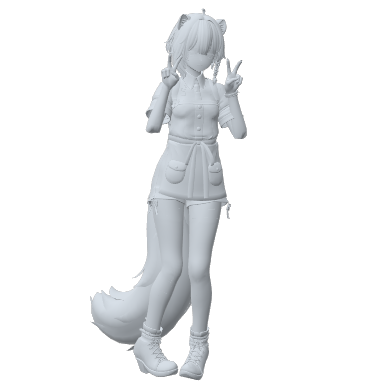
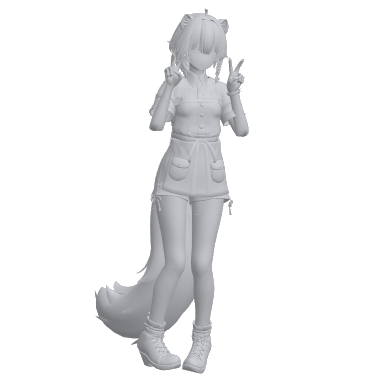
KTBPoses 2.1：同梱ポーズを 100 種類に
- 同梱のポーズの一覧を 100 ポーズ（6 カテゴリ）にして、全ポーズの画像を作り直した
- 「同梱から作成」と、更新で増えた同梱ポーズがライブラリに入ることを説明
- ツールの画面のスクリーンショットを 2.1 のものにした
- 更新履歴に 2.1 を追加

Changed region(s): [[0.2188, 0.0312, 0.6562, 1.0]]

diff --git a/docs/library.md b/docs/library.md
@@ -31,7 +31,7 @@
 
 ## タグ
 
-タグでポーズを分類しておけます。同梱のポーズには、カテゴリ名（ピース・ハート・あざとい・しぐさ・すわる）のタグが付いています。
+タグでポーズを分類しておけます。同梱のポーズには、カテゴリ名（ピース・ハート・あざとい・しぐさ・キメポーズ・すわる）のタグが付いています。
 
 - **＋ タグ** でタグを付けます。今あるタグから選ぶか、「新しいタグ…」で作ります
 - タグの **×** で外します
@@ -63,11 +63,11 @@
 
 ## 同梱ポーズを体型に合わせ直す { #refit }
 
-同梱の 26 ポーズは、手の位置や足の接地を、制作に使ったアバターの体型に合わせて作ってあります。体型や衣装が大きく違うアバターでは、手が顔に少しめり込んだり、腕が体に埋まったり、足が少し浮いたり沈んだりすることがあります。
+同梱の 100 ポーズは、手の位置や足の接地を、制作に使ったアバターの体型に合わせて作ってあります。体型や衣装が大きく違うアバターでは、手が顔に少しめり込んだり、腕が体に埋まったり、足が少し浮いたり沈んだりすることがあります。
 
-上の段でアバターを選び、何も選んでいないときに出る **同梱ポーズを体型に合わせ直す** を押すと、そのアバターの体型と衣装に合わせて計算し直します。
+上の段でアバターを選び、何も選んでいないときに出る **同梱ポーズを体型に合わせ直す** を押すと、そのアバターの体型と衣装に合わせて計算し直します（1 分ほどかかります）。
 
-- 手の位置、腕が体や服にめり込まない角度、足と床の接地を、そのアバターで計算します
+- 手の位置、腕が体や服や床にめり込まない角度、足と床の接地（すわるポーズでは、お尻やひざと床の接地）を、そのアバターで計算します
 - 同梱ポーズのアニメーション（`Assets/KyokaToyBox/KTBPoses/Animations`）を上書きします。同じアニメーションを使う、ほかのアバターのポーズも変わります
 - 導入済みのアバターのポーズにもすぐ反映されます。メニューのアイコンは、[導入し直す](install-avatar.md#reinstall) と新しいポーズになります
 

diff --git a/docs/index.md b/docs/index.md
@@ -6,20 +6,20 @@ KTBPoses は、VRChat のアバターにポーズ集を入れるための Unity 
 ![横ピース](images/poses/01_SidePeace.png)
 ![頭上ハート](images/poses/06_HeadHeart.png)
 ![うさみみ](images/poses/18_BunnyEars.png)
-![スカートつまみ](images/poses/07_SkirtPinch.png)
-![やったー](images/poses/24_Yay.png)
-![女の子座り](images/poses/26_FloorSit.png)
+![自撮り](images/poses/69_Selfie.png)
+![アラベスク](images/poses/84_Arabesque.png)
+![横座り](images/poses/92_SideSit.png)
 </div>
 
 ## できること
 
 <div class="grid cards" markdown>
 
--   :material-human-handsup:{ .lg .middle } **26 種類のポーズを同梱**
+-   :material-human-handsup:{ .lg .middle } **100 種類のポーズを同梱**
 
     ---
 
-    横ピース、指ハート、うさみみ、女の子座りなど。入れてすぐに使えるポーズ集が付いています。
+    横ピース、指ハート、うさみみ、自撮り、アラベスク、正座など。6 つのカテゴリに分かれた、入れてすぐに使えるポーズ集が付いています。
 
     [:octicons-arrow-right-24: 同梱のポーズ](poses.md)
 
@@ -72,4 +72,4 @@ KTBPoses は、VRChat のアバターにポーズ集を入れるための Unity 
 3. 自分好みにする：[ポーズ集を作る](pose-sets.md)、[アニメーションを追加する](library.md)
 
 !!! note "このマニュアルについて"
-    KTBPoses 2.0 に対応しています。ポーズの画像は、ポーズの形が分かりやすいように、形と陰影だけで表示しています。
+    KTBPoses 2.1 に対応しています。ポーズの画像は、ポーズの形が分かりやすいように、形と陰影だけで表示しています。

diff --git a/docs/changelog.md b/docs/changelog.md
@@ -1,5 +1,19 @@
 # 更新履歴
 
+## 2.1（2026-11-12）
+
+同梱のポーズが 100 種類になりました。
+
+- ポーズを 74 種類追加（[同梱のポーズ](poses.md)）
+    - ピース・ハート・あざといポーズの種類を増やしました
+    - ふだんのしぐさ（バイバイ・グッド・腕組み・おじぎ・自撮りなど）
+    - カテゴリ「キメポーズ」を追加（モデル立ち・後ろ姿のほか、バレエ・チアリーディング・ヨガでおなじみのポーズ）
+    - 「すわる」に正座・横座り・あぐら・ひざ立ち・うつぶせ・あおむけ・横寝などを追加
+- 2.0 から更新すると、増えたポーズがライブラリに追加されます。今あるポーズ集は変わりません
+- ポーズ集タブに **同梱から作成** を追加。同梱のポーズをすべて、カテゴリごとのサブメニューに入れたポーズ集を作ります
+- 寝転ぶポーズのアイコンとサムネイルは、横から見た姿で作るようにしました
+- 同梱ポーズを体型に合わせ直すとき、腕が床に入らないようにし、進み具合を表示するようにしました
+
 ## 2.0（2026-11-11）
 
 ポーズを管理するツールになりました。

diff --git a/docs/troubleshooting.md b/docs/troubleshooting.md
@@ -25,6 +25,10 @@
 
 [導入し直す](install-avatar.md#reinstall) を押してから、アップロードし直してください。
 
+### 更新したのに、ポーズ集のポーズが増えていない
+
+新しい版で増えた同梱ポーズは、ライブラリには入りますが、今あるポーズ集には入りません（自分で組んだメニューを変えないため）。[ポーズ集](pose-sets.md) タブで追加するか、**同梱から作成** で全ポーズのポーズ集を作ってください（[新しく増えた同梱ポーズ](install.md#update)）。
+
 ## VRChat で
 
 ### メニューに KTBポーズ が無い・ポーズにならない

diff --git a/docs/pose-sets.md b/docs/pose-sets.md
@@ -10,6 +10,7 @@
 
 | ボタン | 内容 |
 |---|---|
+| 同梱から作成 | 同梱のポーズをすべて、カテゴリごとのサブメニューに入れたポーズ集「KTBPoses 全ポーズ」を作ります。最初に作られるポーズ集「KTBPoses」と同じ構成です |
 | 新規 | 空のポーズ集を作ります |
 | 複製 | 今のポーズ集をコピーします。少しだけ変えた版を作るときに |
 | 削除 | ポーズ集のアセットを消します（パソコンのゴミ箱に移動します）。アバターに導入済みのものと、ライブラリのアニメーションは残ります |

diff --git a/docs/in-vrchat.md b/docs/in-vrchat.md
@@ -64,7 +64,7 @@
 
 ## すわるポーズ
 
-「すわる」のポーズ（しゃがみ頬杖・体育座り・女の子座り）は、アバターの見た目だけが床に座ります。当たり判定は立っているときのままです。
+「すわる」のポーズ（体育座り・正座・うつぶせ・あおむけなど）は、アバターの見た目だけが床に座ったり寝転んだりします。当たり判定は立っているときのままです。
 
 ## アバターを読み込んだとき
 
